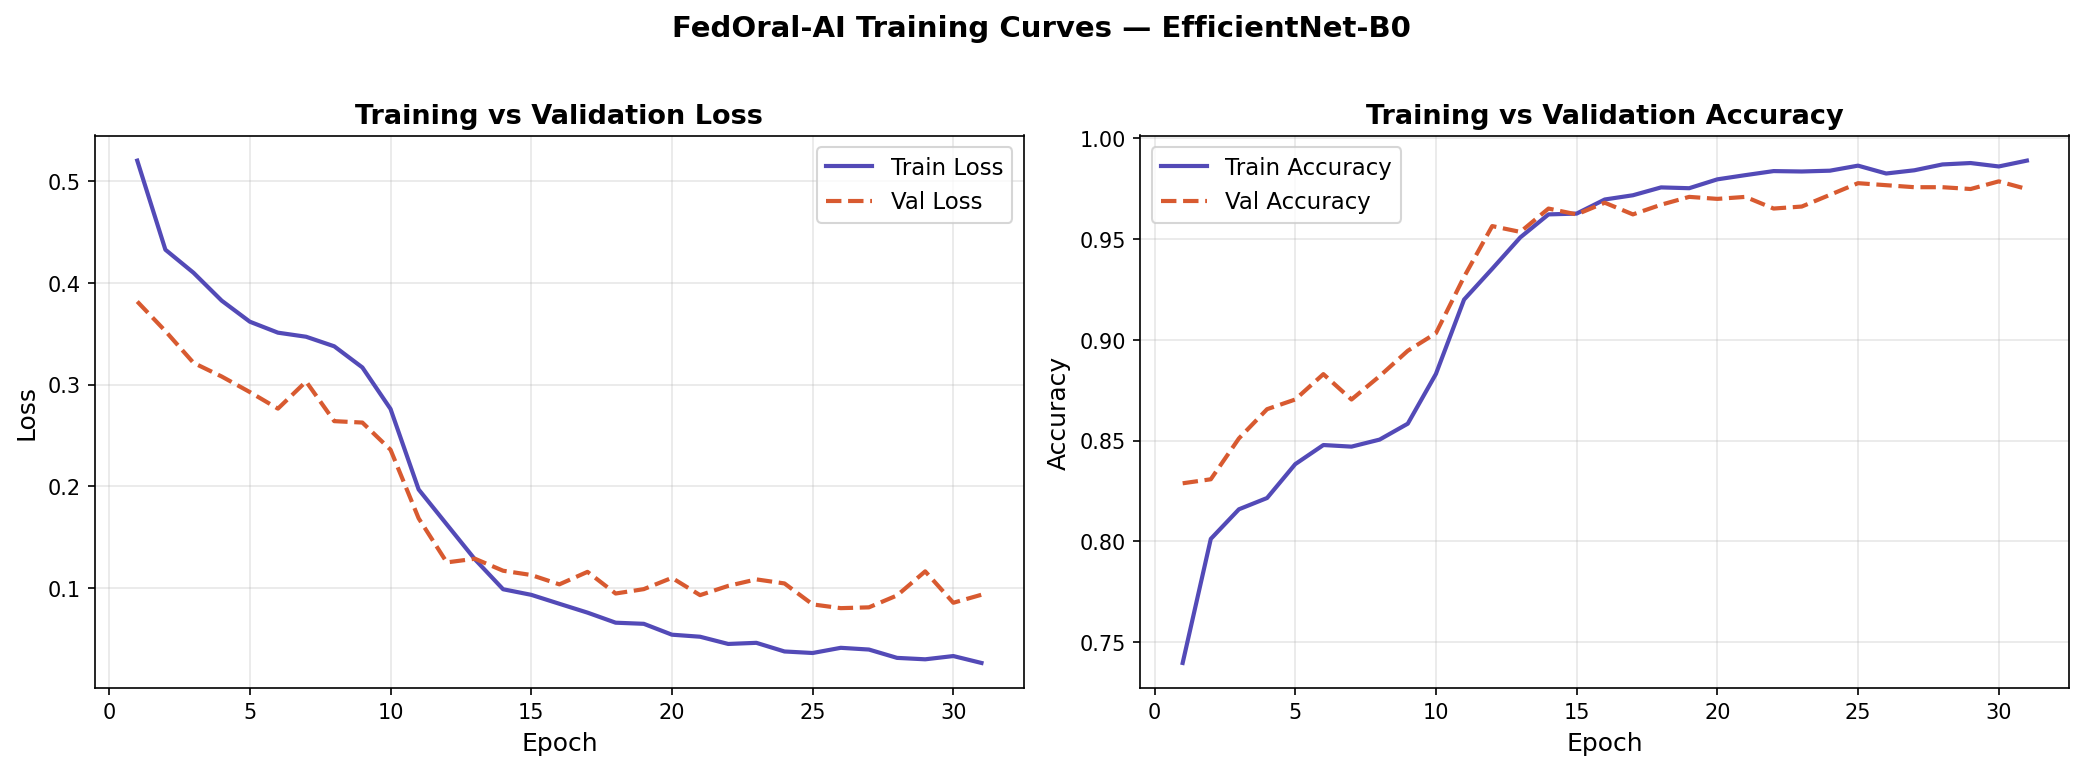
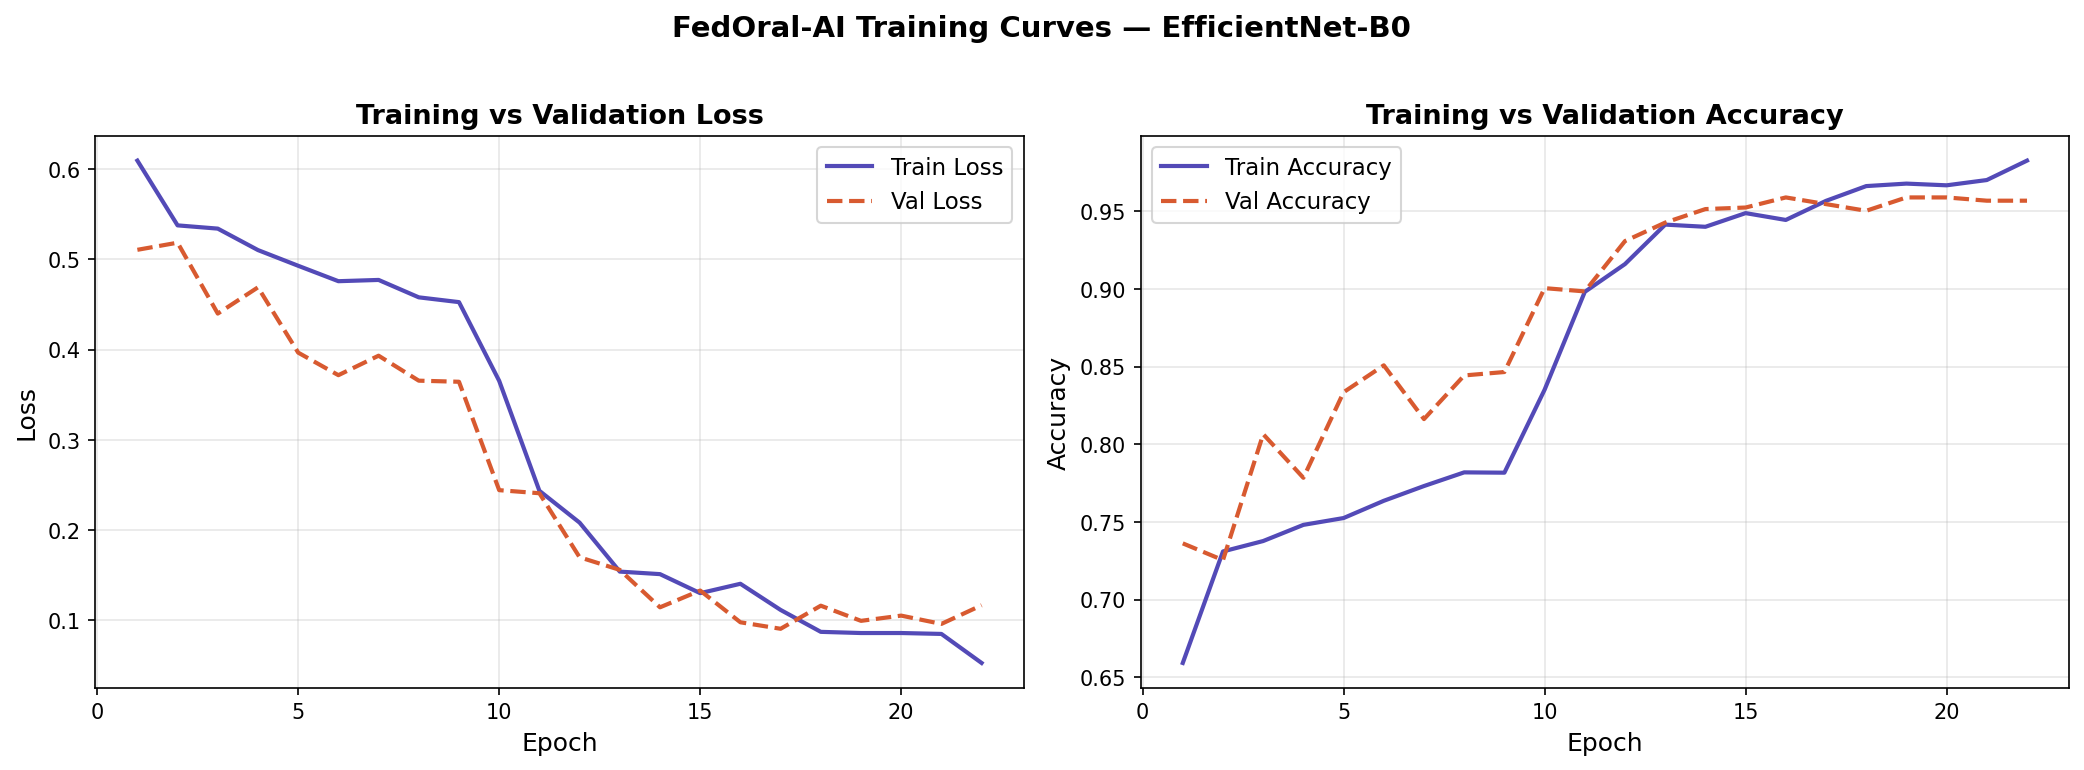
Update pipeline to use clean deduplicated dataset — final verified results (97.6% accuracy, AUC-ROC 0.996)

diff --git a/utils/check_duplicates.py b/utils/check_duplicates.py
@@ -3,75 +3,113 @@ import hashlib
 from collections import defaultdict
 
 def get_file_hash(filepath):
-    '''MD5 hash of file contents — identical files = identical hash'''
+    """MD5 hash of file contents — identical files = identical hash"""
     with open(filepath, 'rb') as f:
         return hashlib.md5(f.read()).hexdigest()
 
-# All image directories to check
-dirs_to_check = {
-    'ORCA': [
-        'data/raw/oral-cancer-dataset/Oral Cancer/Oral Cancer Dataset',
-        'data/raw/oral-cancer-dataset/Oral cancer Dataset 2.0/OC Dataset kaggle new',
-    ],
-    'ashenafifasilkebede': [
-        'data/raw/kaggle-oral-ashen/train',
-        'data/raw/kaggle-oral-ashen/val',
-        'data/raw/kaggle-oral-ashen/test',
-    ],
-    'viditgandhi': [
-        'data/raw/vidit-oral/oral_cancer/train',
-        'data/raw/vidit-oral/oral_cancer/val',
-        'data/raw/vidit-oral/oral_cancer/test',
-    ],
-}
+def check_duplicates():
+    # Image directories grouped by true independent source
+    dirs_to_check = {
+        'ORCA_v1': [
+            'data/raw/oral-cancer-dataset/Oral Cancer/Oral Cancer Dataset',
+        ],
+        'ORCA_v2': [
+            'data/raw/oral-cancer-dataset/Oral cancer Dataset 2.0/'
+            'OC Dataset kaggle new',
+        ],
+        'ashenafifasilkebede': [
+            'data/raw/kaggle-oral-ashen/train',
+            'data/raw/kaggle-oral-ashen/val',
+            'data/raw/kaggle-oral-ashen/test',
+        ],
+    }
 
-print('Scanning all images for duplicates...')
+    print('Scanning all images for duplicates')
 
-# Build hash → (dataset, filepath) mapping
-hash_to_files = defaultdict(list)
-total = 0
+    # Build hash --> list of (dataset_name, filepath)
+    hash_to_files = defaultdict(list)
+    total = 0
 
-for dataset_name, folders in dirs_to_check.items():
-    for folder in folders:
-        for root, dirs, files in os.walk(folder):
-            for fname in files:
-                if fname.lower().endswith(
-                        ('.jpg', '.jpeg', '.png', '.bmp')):
-                    fpath = os.path.join(root, fname)
-                    h = get_file_hash(fpath)
-                    hash_to_files[h].append((dataset_name, fpath))
-                    total += 1
+    for dataset_name, folders in dirs_to_check.items():
+        for folder in folders:
+            for root, dirs, files in os.walk(folder):
+                for fname in files:
+                    if fname.lower().endswith(
+                            ('.jpg', '.jpeg', '.png', '.bmp')):
+                        fpath = os.path.join(root, fname)
+                        h = get_file_hash(fpath)
+                        hash_to_files[h].append((dataset_name, fpath))
+                        total += 1
 
-print(f'Total images scanned: {total}')
-print()
+    print(f'Total images scanned: {total}')
 
-# Find duplicates
-duplicates = {h: files for h, files in hash_to_files.items()
-              if len(files) > 1}
+    # Find all duplicate groups (hash shared by 2+ files)
+    duplicates = {h: files for h, files in hash_to_files.items()
+                  if len(files) > 1}
 
-if not duplicates:
-    print('No duplicates found — all datasets are unique!')
-else:
-    print(f'Found {len(duplicates)} duplicate image groups:')
-    cross_dataset = 0
-    same_dataset  = 0
-    for h, files in list(duplicates.items())[:20]:
-        datasets = [f[0] for f in files]
-        if len(set(datasets)) > 1:
-            cross_dataset += 1
-            print(f'  CROSS-DATASET duplicate:')
+    if not duplicates:
+        print('No duplicates found anywhere!')
+        return
+
+    print(f'Found {len(duplicates)} duplicate image groups\n')
+
+    # Categorize EVERY duplicate group (no sampling/slicing)
+    within_orca = []          # ORCA_v1 <-> ORCA_v2 overlap (expected/known)
+    orca_vs_ashen = []        # ORCA <-> ashen overlap (would be serious)
+    within_ashen = []         # ashen's own internal duplicates
+    other = []                # any unexpected combination
+
+    for h, files in duplicates.items():
+        datasets_present = set(f[0] for f in files)
+
+        if datasets_present == {'ORCA_v1', 'ORCA_v2'}:
+            within_orca.append((h, files))
+        elif 'ashenafifasilkebede' in datasets_present and \
+             ('ORCA_v1' in datasets_present or 'ORCA_v2' in datasets_present):
+            orca_vs_ashen.append((h, files))
+        elif datasets_present == {'ashenafifasilkebede'}:
+            within_ashen.append((h, files))
+        else:
+            other.append((h, files))
+
+    total_categorized = (len(within_orca) + len(orca_vs_ashen) +
+                          len(within_ashen) + len(other))
+
+    print(f'{"="*55}')
+    print(f'DUPLICATE BREAKDOWN')
+    print(f'{"="*55}')
+    print(f'ORCA v1 <-> ORCA v2 overlap:      {len(within_orca)}')
+    print(f'ORCA <-> ashen (serious!):        {len(orca_vs_ashen)}')
+    print(f'Within ashen only:                {len(within_ashen)}')
+    print(f'Other/unexpected combinations:    {len(other)}')
+    print(f'{"-"*55}')
+    print(f'Total verified:                   {total_categorized} '
+          f'(should equal {len(duplicates)})')
+    print(f'{"="*55}\n')
+
+    if orca_vs_ashen:
+        print('Found overlap between ORCA and ashen datasets')
+        for h, files in orca_vs_ashen[:10]:
+            print(f'  Duplicate group (hash={h[:8]}...):')
             for ds, fp in files:
                 print(f'    [{ds}] {os.path.basename(fp)}')
-        else:
-            same_dataset += 1
-
-    print()
-    print(f'Cross-dataset duplicates: {cross_dataset}')
-    print(f'Same-dataset duplicates:  {same_dataset}')
-    print()
-    if cross_dataset > 0:
-        print('Cross-dataset duplicates will inflate your results!')
-        print('These images appear in multiple datasets.')
-        print('Remove duplicates before retraining.')
     else:
-        print('No cross-dataset duplicates — datasets are independent!')
+        print('No overlap between ORCA and ashen — sources are independent.\n')
+
+    if within_orca:
+        print(f'\nORCA v1/v2 overlap confirmed: {len(within_orca)} images '
+              f'exist in both dataset versions. Deduplicate ORCA before use')
+
+    if within_ashen:
+        print(f'\n{len(within_ashen)} internal duplicate groups within '
+              f'ashenafifasilkebede itself.')
+
+    if other:
+        print(f'\n {len(other)} unexpected combination(s) — inspecting:')
+        for h, files in other:
+            print(f'Duplicate group (hash={h[:8]}...):')
+            for ds, fp in files:
+                print(f'    [{ds}] {os.path.basename(fp)}')
+
+if __name__ == '__main__':
+    check_duplicates()

diff --git a/models/train.py b/models/train.py
@@ -11,6 +11,7 @@ sys.path.insert(0, os.path.dirname(os.path.dirname(os.path.abspath(__file__))))
 
 from data.dataset import OralCancerDataset, get_transforms
 from models.resnet_baseline import OralCancerResNet
+from models.efficientnet_baseline import OralCancerEfficientNet
 from models.mobilenet_baseline import OralCancerMobileNet
 from utils.device import get_device
 
@@ -137,20 +138,15 @@ def validate(model, loader, criterion, device):
 
 
 # Main training loop
-def train(num_epochs=30, batch_size=32, learning_rate=0.001,
+def train(num_epochs=50, batch_size=32, learning_rate=0.001,
           freeze_backbone=True):
 
     device = get_device()
 
     # Dataset & DataLoaders
     root_dirs = [
-        # Original ORCA dataset — 1,700 images
-        'data/raw/oral-cancer-dataset/Oral Cancer/Oral Cancer Dataset',
-        'data/raw/oral-cancer-dataset/Oral cancer Dataset 2.0/OC Dataset kaggle new',
-        # ashenafifasilkebede (Rahman et al. source) — 5,192 images
-        'data/raw/kaggle-oral-ashen/train',
-        'data/raw/kaggle-oral-ashen/val',
-        'data/raw/kaggle-oral-ashen/test',
+        'data/raw/orca-deduplicated',
+        'data/raw/ashen-deduplicated',
     ]
 
     train_ds = OralCancerDataset(root_dirs, 'train', get_transforms('train'))
@@ -171,13 +167,21 @@ def train(num_epochs=30, batch_size=32, learning_rate=0.001,
     train_labels = [label for _, label in train_ds.samples]
     label_counts = Counter(train_labels)
     total = len(train_labels)
-    n_non_cancer = label_counts[0]
-    n_cancer     = label_counts[1]
+
+    idx_non_cancer = train_ds.class_to_idx['NON CANCER']
+    idx_cancer     = train_ds.class_to_idx['CANCER']
+
+    n_non_cancer = label_counts[idx_non_cancer]
+    n_cancer     = label_counts[idx_cancer]
 
     weight_non_cancer = total / (2 * n_non_cancer)
     weight_cancer     = total / (2 * n_cancer)
-    class_weights = torch.tensor(
-        [weight_non_cancer, weight_cancer]).to(device)
+
+    # Build weights tensor in the correct index order
+    class_weights = torch.zeros(2)
+    class_weights[idx_non_cancer] = weight_non_cancer
+    class_weights[idx_cancer]     = weight_cancer
+    class_weights = class_weights.to(device)
 
     print(f"Dataset: {total} train images")
     print(f"  NON CANCER: {n_non_cancer} ({n_non_cancer/total*100:.1f}%)")
@@ -186,10 +190,12 @@ def train(num_epochs=30, batch_size=32, learning_rate=0.001,
         f"CANCER={weight_cancer:.3f}")
 
     # Model
-    model = OralCancerMobileNet(
+    model = OralCancerResNet(
         num_classes=2,
         freeze_backbone=freeze_backbone
     ).to(device)
+    model.get_param_count()
+    print(f"Training model: {model.__class__.__name__}")
 
     # Loss & Optimizer
     criterion = nn.CrossEntropyLoss(weight=class_weights)
@@ -207,7 +213,7 @@ def train(num_epochs=30, batch_size=32, learning_rate=0.001,
     # Early stopping
     early_stopping = EarlyStopping(
         patience=5,
-        checkpoint_path='models/checkpoints/best_model_mobilenet.pth'
+        checkpoint_path='models/checkpoints/best_model_resnet.pth'
     )
 
     # CSV logging
@@ -301,7 +307,7 @@ def train(num_epochs=30, batch_size=32, learning_rate=0.001,
     # Final test evaluation
     print(f"\nLoading best checkpoint for test evaluation...")
     model.load_state_dict(torch.load(
-        'models/checkpoints/best_model_mobilenet.pth',
+        'models/checkpoints/best_model_resnet.pth',
         map_location=device))
 
     test_loss, test_acc, test_prec, test_rec, test_f1, test_auc = \

diff --git a/data/dataset.py b/data/dataset.py
@@ -27,9 +27,9 @@ class OralCancerDataset(Dataset):
         self.classes = ['CANCER', 'NON CANCER']
         # Support multiple naming conventions across datasets
         self.class_to_idx = {
-            'NON CANCER': 0, 'CANCER': 1,   # original dataset
-            'Normal': 0,     'OSCC': 1,     # Rahman/ashenafifasilkebede
-            'Benign': 0,     'Malignant': 1 # other common naming
+            'NON CANCER': 0, 'CANCER': 1,
+            'Normal': 0,     'OSCC': 1,
+            'Benign': 0,     'Malignant': 1
         }
 
         # Load images from all root directories
@@ -111,13 +111,8 @@ def get_transforms(split='train'):
 
 if __name__ == '__main__':
     root_dirs = [
-        # Original ORCA dataset — 1,700 images
-        'data/raw/oral-cancer-dataset/Oral Cancer/Oral Cancer Dataset',
-        'data/raw/oral-cancer-dataset/Oral cancer Dataset 2.0/OC Dataset kaggle new',
-        # ashenafifasilkebede — 5,192 images
-        'data/raw/kaggle-oral-ashen/train',
-        'data/raw/kaggle-oral-ashen/val',
-        'data/raw/kaggle-oral-ashen/test',
+        'data/raw/orca-deduplicated',
+        'data/raw/ashen-deduplicated',
     ]
 
     train_ds = OralCancerDataset(root_dirs, 'train', get_transforms('train'))

diff --git a/models/gradcam.py b/models/gradcam.py
@@ -101,7 +101,7 @@ def generate_gradcam_figure(
             # Log prediction result for each image
             print(f"Image {i+1}: True={true_label} Pred={pred_label} "
             f"Conf={probs[pred_idx]*100:.1f}% "
-            f"{'✓ CORRECT' if pred_idx==label else '✗ FALSE NEG'}")
+            f"{'CORRECT' if pred_idx==label else 'FALSE NEG'}")
     
             # Original image
             original = denormalize(img_tensor)
@@ -132,7 +132,7 @@ def generate_gradcam_figure(
             axes[i][1].axis("off")
 
             # Column 3: Overlay + prediction
-            correct = "✓" if pred_idx == label else "✗"
+            correct = "Y" if pred_idx == label else "X"
             axes[i][2].imshow(overlaid)
             axes[i][2].set_title(
                 f"Overlay {correct}\n"
@@ -176,13 +176,8 @@ if __name__ == "__main__":
 
     # Load test dataset
     root_dirs = [
-        # Original ORCA dataset — 1,700 images
-        "data/raw/oral-cancer-dataset/Oral Cancer/Oral Cancer Dataset",
-        "data/raw/oral-cancer-dataset/Oral cancer Dataset 2.0/OC Dataset kaggle new",
-        # ashenafifasilkebede (Rahman et al. source) — 5,192 images
-        "data/raw/kaggle-oral-ashen/train",
-        "data/raw/kaggle-oral-ashen/val",
-        "data/raw/kaggle-oral-ashen/test",
+        'data/raw/orca-deduplicated',
+        'data/raw/ashen-deduplicated',
     ]
 
     test_ds = OralCancerDataset(

diff --git a/models/evaluate.py b/models/evaluate.py
@@ -28,11 +28,8 @@ def evaluate_and_plot(checkpoint_path='models/checkpoints/best_model.pth'):
 
     # Load test set
     root_dirs = [
-        'data/raw/oral-cancer-dataset/Oral Cancer/Oral Cancer Dataset',
-        'data/raw/oral-cancer-dataset/Oral cancer Dataset 2.0/OC Dataset kaggle new',
-        'data/raw/kaggle-oral-ashen/train',
-        'data/raw/kaggle-oral-ashen/val',
-        'data/raw/kaggle-oral-ashen/test',
+        'data/raw/orca-deduplicated',
+        'data/raw/ashen-deduplicated',
     ]
     test_ds = OralCancerDataset(
         root_dirs, 'test', get_transforms('test')
@@ -76,9 +73,10 @@ def evaluate_and_plot(checkpoint_path='models/checkpoints/best_model.pth'):
                fontsize=12)
     plt.ylabel('True Positive Rate\n(Sensitivity / Recall)',
                fontsize=12)
+
     plt.title(
-        'ROC Curve — FedOral-AI Oral Cancer Detection\n'
-        'EfficientNet-B0 · 6,892 images · Seed=42',
+        f'ROC Curve — FedOral-AI Oral Cancer Detection\n'
+        f'EfficientNet-B0 · 6,170 images · Seed=42',
         fontsize=13, fontweight='bold'
     )
     plt.legend(loc='lower right', fontsize=11)

diff --git a/models/evaluate_by_modality.py b/models/evaluate_by_modality.py
@@ -81,11 +81,8 @@ if __name__ == '__main__':
 
     # Load full test dataset
     root_dirs = [
-        'data/raw/oral-cancer-dataset/Oral Cancer/Oral Cancer Dataset',
-        'data/raw/oral-cancer-dataset/Oral cancer Dataset 2.0/OC Dataset kaggle new',
-        'data/raw/kaggle-oral-ashen/train',
-        'data/raw/kaggle-oral-ashen/val',
-        'data/raw/kaggle-oral-ashen/test',
+        'data/raw/orca-deduplicated',
+        'data/raw/ashen-deduplicated',
     ]
     test_ds = OralCancerDataset(
         root_dirs, 'test', get_transforms('test')
@@ -95,11 +92,11 @@ if __name__ == '__main__':
     # Split test samples by modality based on source folder
     clinical_samples = [
         (path, label) for path, label in test_ds.samples
-        if 'oral-cancer-dataset' in path
+        if 'orca-deduplicated' in path
     ]
     histo_samples = [
         (path, label) for path, label in test_ds.samples
-        if 'kaggle-oral-ashen' in path
+        if 'ashen-deduplicated' in path
     ]
 
     print(f"\nTotal test samples: {len(test_ds.samples)}")

diff --git a/models/diagnose.py b/models/diagnose.py
@@ -20,8 +20,8 @@ model.eval()
 
 # Load test set
 root_dirs = [
-    'data/raw/oral-cancer-dataset/Oral Cancer/Oral Cancer Dataset',
-    'data/raw/oral-cancer-dataset/Oral cancer Dataset 2.0/OC Dataset kaggle new'
+    'data/raw/orca-deduplicated',
+    'data/raw/ashen-deduplicated',
 ]
 test_ds = OralCancerDataset(root_dirs, 'test', get_transforms('test'))
 test_loader = DataLoader(test_ds, batch_size=32, shuffle=False)

diff --git a/utils/__init__.py b/utils/__init__.py
@@ -1,2 +1,0 @@
-from utils.device import get_device
-device = get_device()